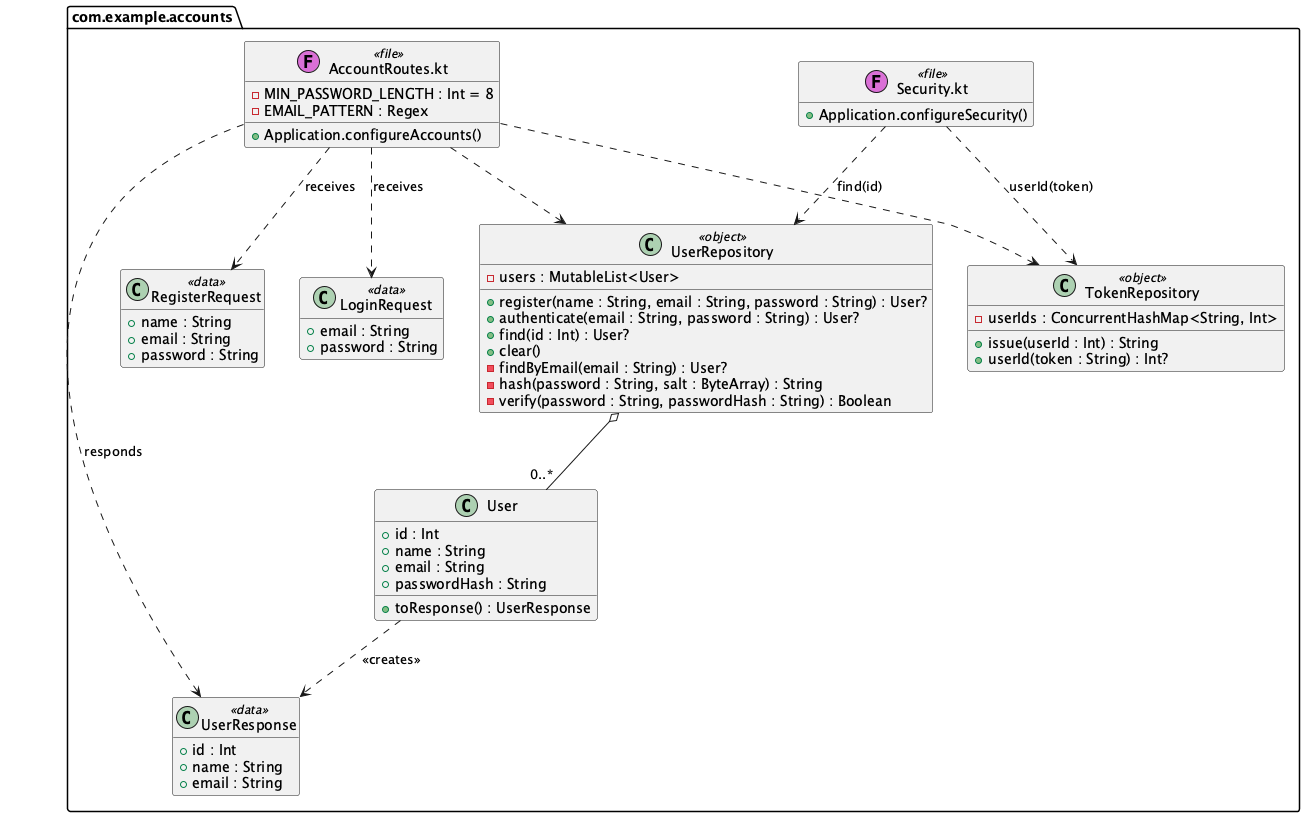
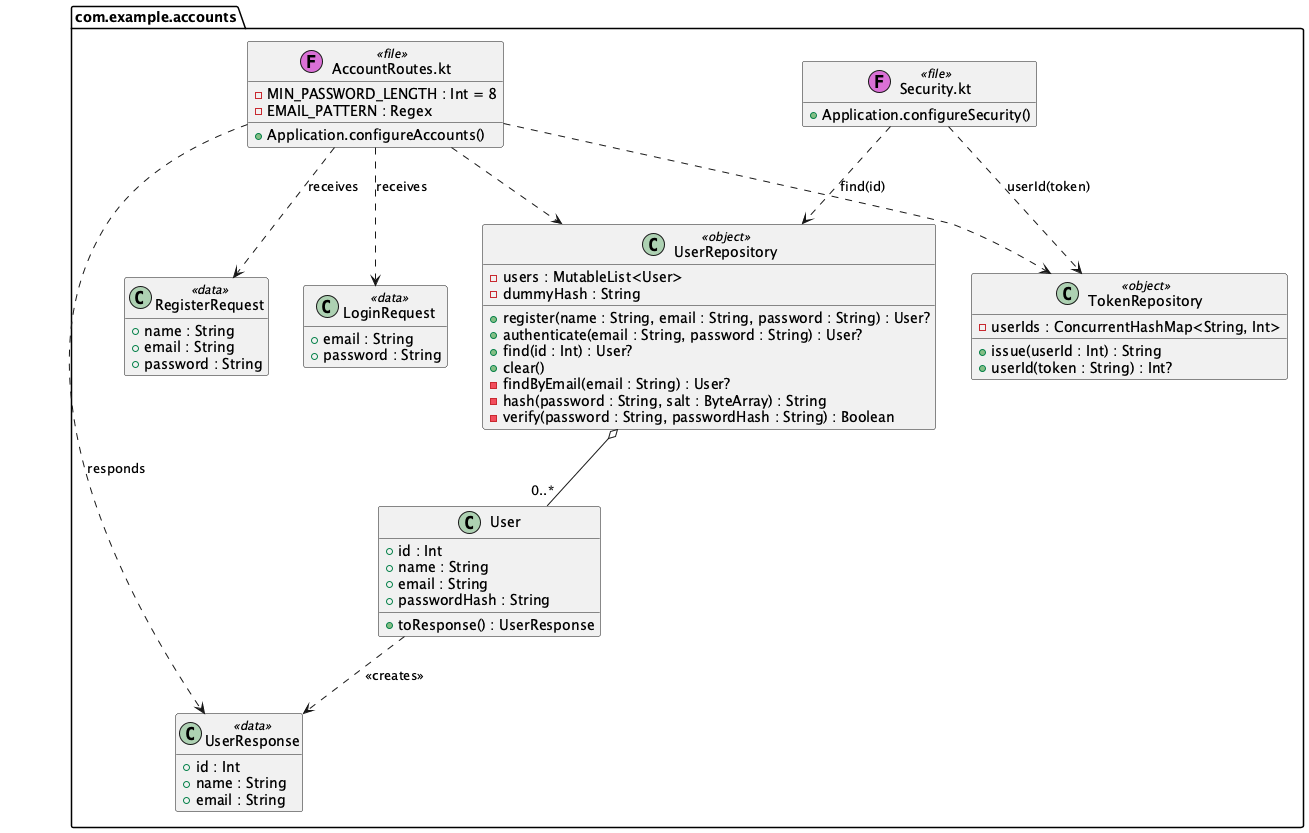
Verify unknown emails against a dummy hash
authenticate returned right away for an unknown email but ran the 600,000-iteration PBKDF2 for a known one, so the response time showed which emails have an account. Both cases now cost the same.

diff --git a/src/accounts/UserRepository.kt b/src/accounts/UserRepository.kt
@@ -9,6 +9,7 @@ import javax.crypto.spec.PBEKeySpec
 // ponytail: in-memory store, swap for the database once #10 lands
 object UserRepository {
     private val users = mutableListOf<User>()
+    private val dummyHash by lazy { hash("dummy") }
 
     fun register(name: String, email: String, password: String): User? {
         val passwordHash = hash(password) // slow, so keep it outside the lock
@@ -18,8 +19,13 @@ object UserRepository {
         }
     }
 
-    fun authenticate(email: String, password: String): User? =
-        synchronized(this) { findByEmail(email) }?.takeIf { verify(password, it.passwordHash) }
+    // An unknown email is verified against a dummy hash, so it costs as much time as a known one
+    // and the response time doesn't reveal which emails have an account.
+    fun authenticate(email: String, password: String): User? {
+        val user = synchronized(this) { findByEmail(email) }
+        val passwordMatches = verify(password, user?.passwordHash ?: dummyHash)
+        return user?.takeIf { passwordMatches }
+    }
 
     @Synchronized
     fun find(id: Int): User? = users.find { it.id == id }

diff --git a/test/accounts/UserRepositoryTest.kt b/test/accounts/UserRepositoryTest.kt
@@ -27,4 +27,20 @@ class UserRepositoryTest {
         assertNotEquals("supersecret", user.passwordHash)
         assertFalse(user.passwordHash.contains("supersecret"))
     }
+
+    @Test
+    fun AuthenticateUnknownEmailTakesAsLongAsKnownEmail() {
+        UserRepository.register("Jan", "jan@example.com", "supersecret")
+        fun millis(email: String): Long {
+            val start = System.nanoTime()
+            UserRepository.authenticate(email, "wrongpassword")
+            return (System.nanoTime() - start) / 1_000_000
+        }
+        millis("nobody@example.com") // warm up, also computes the dummy hash
+
+        val known = List(3) { millis("jan@example.com") }.sorted()[1]
+        val unknown = List(3) { millis("nobody@example.com") }.sorted()[1]
+
+        assertTrue(unknown * 2 >= known, "unknown email took ${unknown}ms, known email ${known}ms")
+    }
 }
